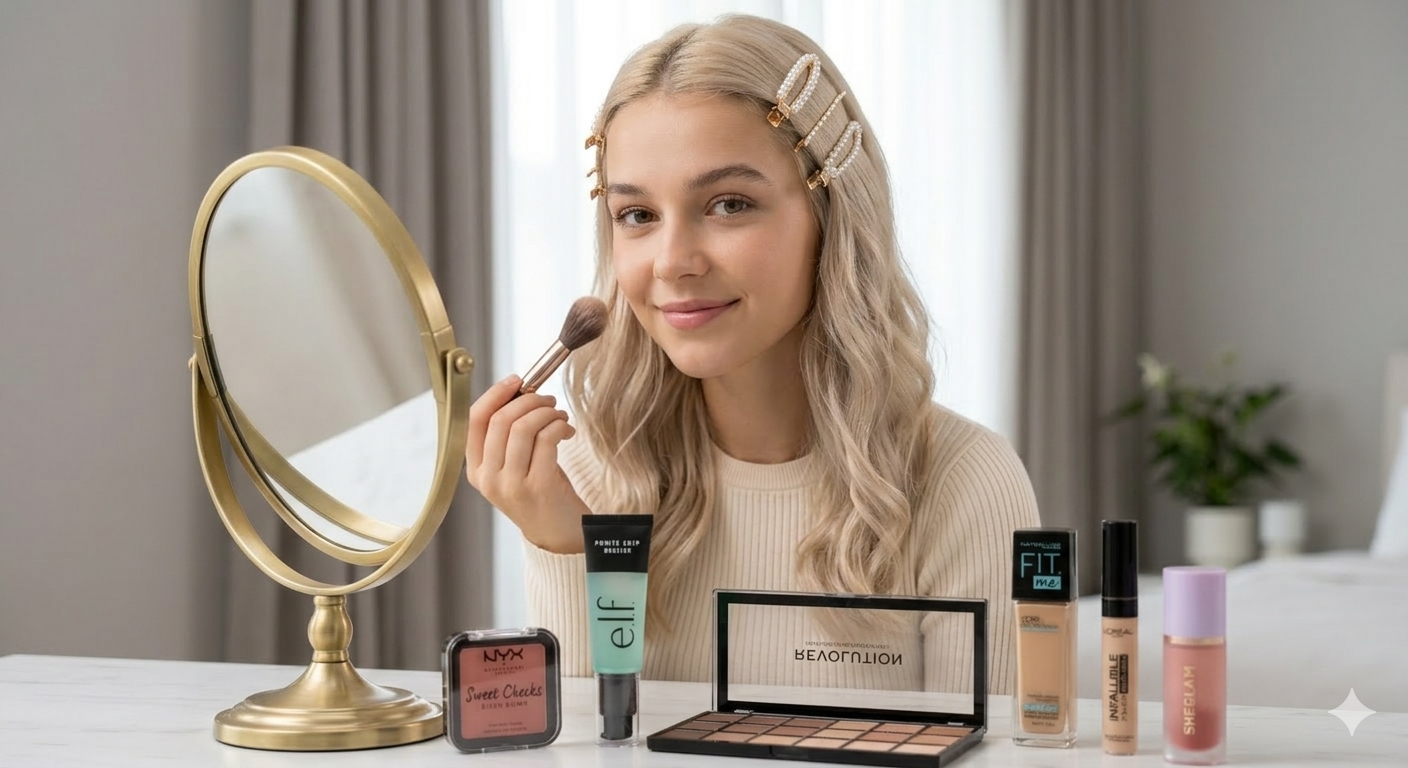
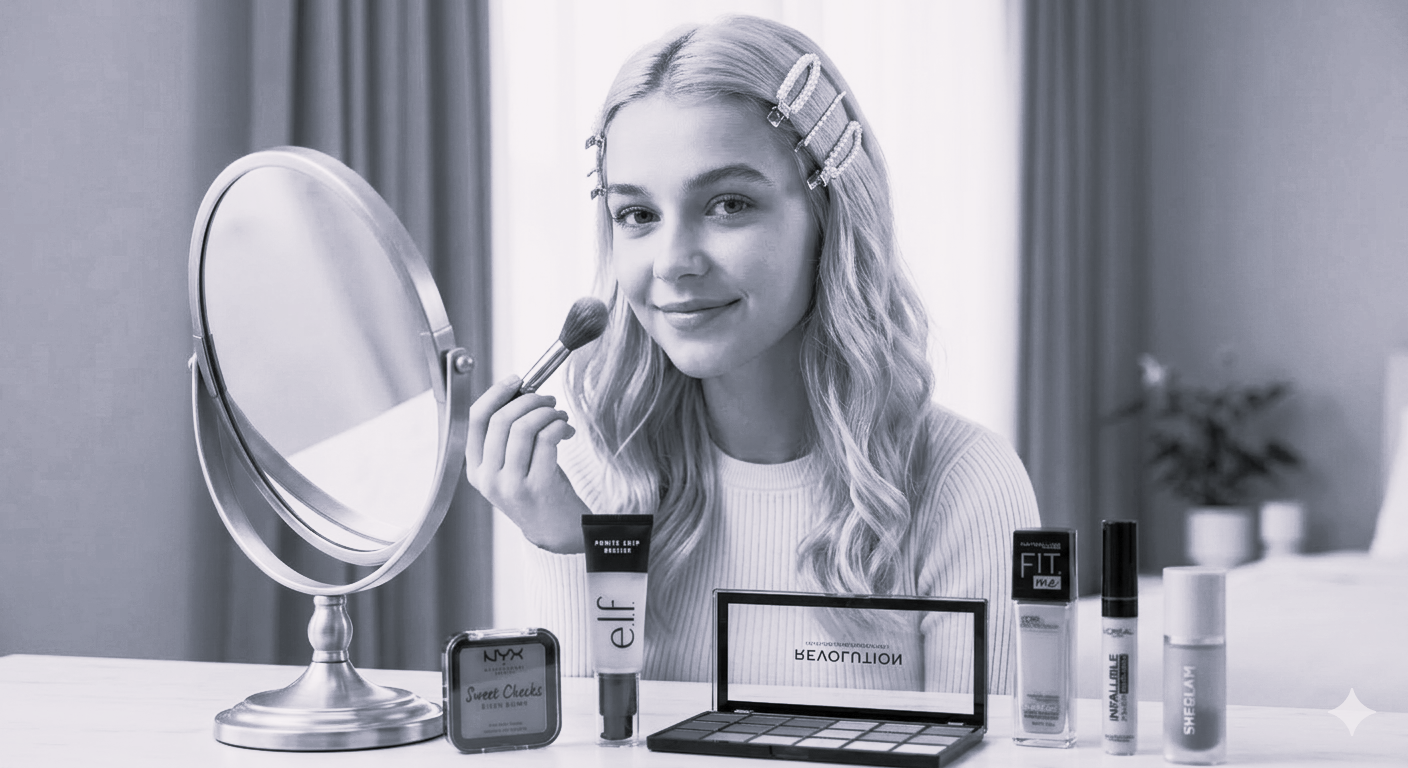
commit

diff --git a/personal project/signup.html b/personal project/signup.html
@@ -1,0 +1,94 @@
+<!DOCTYPE html>
+<html lang="en">
+<head>
+    <meta charset="UTF-8">
+    <meta name="viewport" content="width=device-width, initial-scale=1.0">
+    <title>CONTACT US</title>
+</head>
+<body>
+    <section id="section-3">
+        <div class="container">
+            <div class="title-box">
+                <h2 style="text-align: center; font-size: 40px;">GET IN TOUCH</h2>
+                <div class="line"></div>
+                <p style="text-align: center; font-size: 25px;">Create an account to discover the best
+                     beauty dupes, save your favorites, and stay updated on new affordable finds.</p>
+            </div>
+            <div id="contact-form">
+                <form>
+                    <div class="form-row">
+                        <input type="text" name="name" placeholder="your name">
+                        <input type="email" name="email" placeholder="your email">
+                    </div>
+                    <div class="form-row">
+                        <textarea name="message" placeholder="your message"></textarea>
+                    </div>
+                    <div class="form-row">
+                        <input type="submit" class="big-button" value="send message">
+                    </div>
+                </form>
+            </div>
+        </div>
+    </section>
+    <style>
+        #section-3{
+            background-color: #646466;
+             min-height: 1000px ;
+            color: white;
+           font-family: "Trebuchet MS", Helvetica, sans-serif;
+           margin-top: auto;
+           padding-top: auto;
+        }
+
+        #contact-form{
+            max-width: 860px;
+            margin-left: auto;
+            margin-right: auto;
+        }
+
+        .form-row{
+            display: flex;
+        }
+
+        input[type="text"], input[type="email"]{
+            width: 46%;
+            height: 56px;
+        }
+
+        input[type="text"], input[type="email"], textarea{
+            font-family:"Trebuchet MS", Helvetica, sans-serif;;
+            color: white;
+            background-color: #b6b6b6;
+            border: none;
+            font-size: 18px;
+            margin: 16px;
+            border-radius: 5px;
+            padding-left: 26px;
+        }
+
+        textarea{
+            height: 200px;
+            width: 100%;
+            padding-top: 24px;
+        }
+
+        input[type="submit"]{
+            background-color: #cccccc;
+            border: none;
+            font-size: 18px;
+            text-transform: uppercase;
+            margin-left: auto;
+            margin-right: auto;
+            border-radius: 5px;
+            margin-top: 60px;
+        }
+
+        .big-button{
+            padding: 25px 85px;
+            color: white;
+        }
+
+    </style>
+
+</body>
+</html>

diff --git a/personal project/aboutus.html b/personal project/aboutus.html
@@ -7,6 +7,8 @@
     <link rel="stylesheet" href="aboutus.css">
 </head>
 <body>
+    <section>
+        <div class="about">
     <h1 style="text-align: center;
                 font-family: Trebuchet MS, Helvetica, sans-serif;">ABOUT US</h1>
     <p style="text-align: center;
@@ -15,16 +17,46 @@
         Sephora products. Our goal is to make great makeup and skincare more accessible by sharing
         products that deliver a similar look, feel, and quality—without the high price.
         <hr><br>
-        <img src="images/aboutus.png" style="width: 800px; height: auto; margin-left: 400px;">
         <hr><br>
         <p style="text-align: center; font-family: Trebuchet MS, Helvetica, sans-serif; font-size: 20px;">Why use our site? <br>
-            💄 Discover affordable beauty dupes
-            ✨ Save money on your favorite looks
-            💕 Explore new makeup and skincare</p>
+            Discover affordable beauty dupes
+            Save money on your favorite looks
+            Explore new makeup and skincare</p>
+            </div>
+        </section>
         <style>
-            body{
-                background-color: #929292;
-                color: white;
+        body {
+            font-family: Trebuchet MS, Helvetica, sans-serif;
+            background-image:  linear-gradient(to bottom, rgba(179, 179, 179, 0.8), rgba(179, 179, 179, 0.7)), url(images/aboutus.png);
+        }
+   
+        .about {
+             padding: 60px 20px;
+             text-align: center;
+            background: url(about.png);
+            }
+
+        .about-container {
+            max-width: 700px;
+            margin: auto;
+            background: white;
+            padding: 40px;
+            border-radius: 50px;
+            box-shadow: 0 4px 15px rgba(0,0,0,0.1);
+            text-align: center;
+        }
+
+        .about h2 {
+            font-size: 32px;
+            margin-bottom: 20px;
+            color: #fffefe;
+            }
+
+        .about p {
+            color: #ffffff;
+            line-height: 1.6;
+            margin-bottom: 15px;
+            line-height: 1.5;
             }
         </style>
        

diff --git a/personal project/contactus.html b/personal project/contactus.html
@@ -13,7 +13,7 @@
                 font-family: Trebuchet MS, Helvetica, sans-serif; 
                 font-size: 30px;
                 margin-top: 30px;
-                padding: 30px;">You can contact us on our email also our cell number.
+                padding: 30px;">Have questions or dupe suggestions? Contact us anytime—we’d love to hear from you!
     </p>
     <a href="mailto:info@shkolladigjitale.com">send email</a>
         <br>
@@ -27,7 +27,8 @@
 
             a{
                 font-size: 20px;
-                
+                color: white;
+                text-align: center;
             }
         </style>
 </body>

diff --git a/personal project/home.html b/personal project/home.html
@@ -81,5 +81,19 @@
             </h5>
         </div>
     </section>
+    <footer>
+        <div class="container">
+            <div class="footer-links">
+                <ul>
+                    <li><a href="#">facebook</a></li>
+                    <li><a href="#">twitter</a></li>
+                    <li><a href="#">google+</a></li>
+                    <li><a href="#">linkedin</a></li>
+                    <li><a href="#">tiktok</a></li>
+                    <li><a href="#">github</a></li>
+                </ul>
+            </div>
+        </div>
+    </footer>
 </body>
 </html>

diff --git a/personal project/style.css b/personal project/style.css
@@ -129,3 +129,29 @@ nav ul li:hover{
     margin-left: 20px;
     margin-right: 20px;
 }
+
+footer{
+    background-color: #ffffff;
+}
+
+.footer-links{
+    max-width: 945px;
+    margin-left: auto;
+    margin-right: auto;
+}
+
+.footer ul{
+    margin: 0;
+    display: flex;
+}
+
+.footer-links ul li{
+    display: inline-block;
+    padding: 10px 20px 10px 20px;
+}
+
+.footer-links ul li a{
+    text-decoration: none;
+    color: rgb(0, 0, 0);
+    font-size: 24px;
+}
